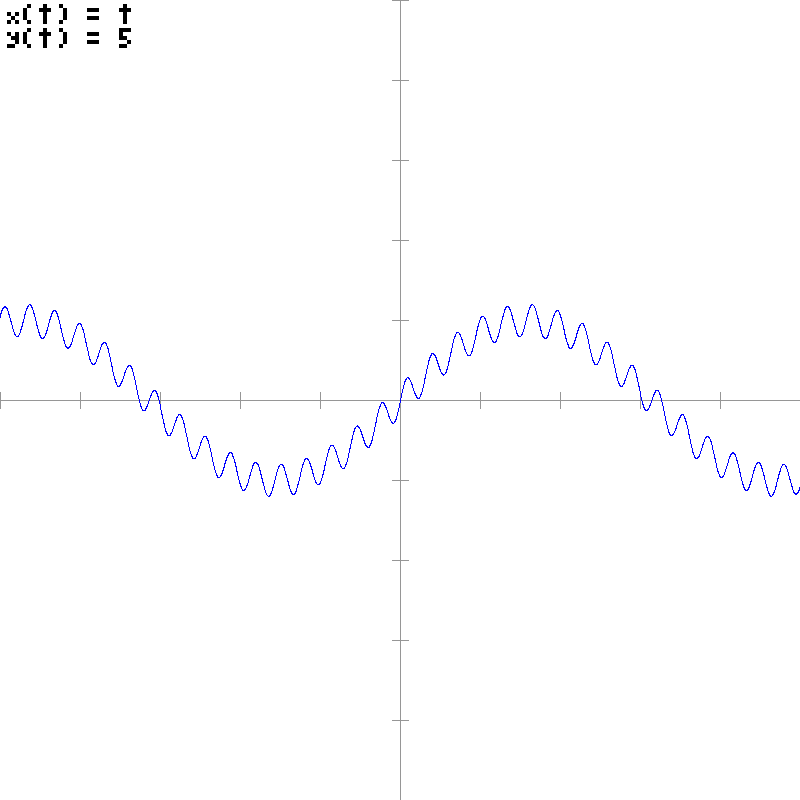
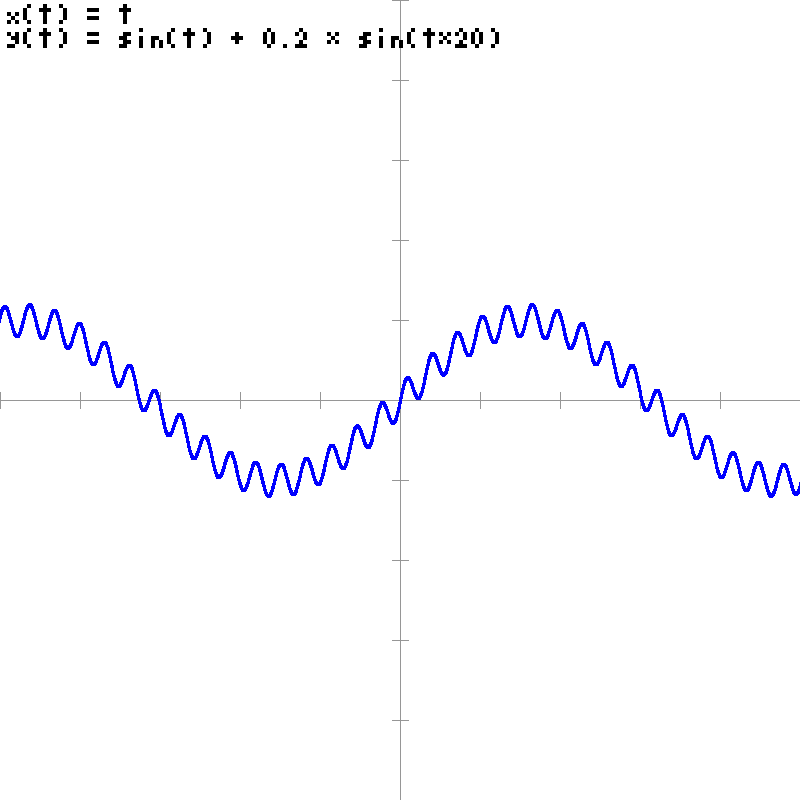
Bug fix with formula display

diff --git a/init.py b/init.py
@@ -192,6 +192,11 @@ if mode == "parametric":
     if len(data["graph"]) != 1:
         data["displayformula"] = False
 
+    # prepare text to display
+    # this is if the formula should be displayed
+    grdes = "x(t) = " + data["graph"][0]["x"].lower()
+    grdes += "\ny(t) = " + data["graph"][0]["y"].lower()
+
     xsize = data["window"]["x"]["max"] - data["window"]["x"]["min"]
     ysize = data["window"]["y"]["max"] - data["window"]["y"]["min"]
 
@@ -270,9 +275,6 @@ if mode == "parametric":
 
     # check if the formula should be shown on the output image
     if data["displayformula"]:
-        # prepare text to display
-        grdes = "x(t) = " + data["graph"][0]["x"].lower()
-        grdes += "\ny(t) = " + data["graph"][0]["y"].lower()
         # add text to image
         grid = add_text(grid, grdes, 7, 4)
 
